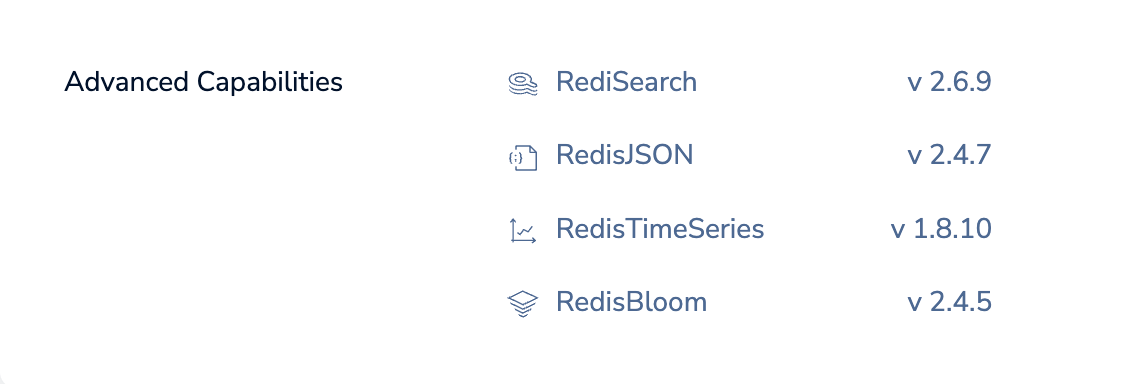
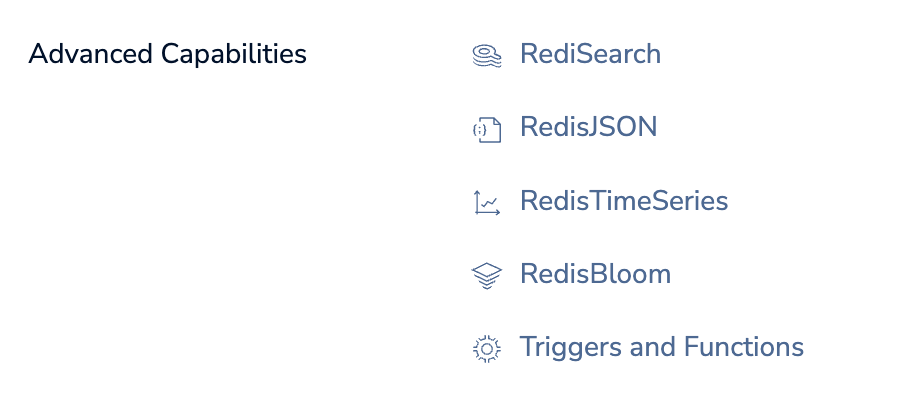
DOC-2354: Add Triggers and Functions support for Fixed (#2714)
* Change stack img to include Triggers and Functions

* Add T&F to august changelog

* Fix link title

* Update product URL

diff --git a/content/rc/changelog/august-2023.md b/content/rc/changelog/august-2023.md
@@ -1,0 +1,20 @@
+---
+Title: Redis Enterprise Cloud changelog (August 2023)
+linktitle: August 2023
+description: New features, enhancements, and other changes added to Redis Enterprise Cloud during August 2023.
+highlights: Triggers and Functions
+weight: 80
+alwaysopen: false
+categories: ["RC"]
+aliases: []
+---
+
+This changelog lists new features, enhancements, and other changes added to Redis Enterprise Cloud during August 2023.
+
+## New features
+
+### Triggers and Functions support
+
+[Triggers and Functions](https://redis.com/redis-enterprise/triggers-and-functions/) (previously known as RedisGears) is now available when you select Redis Stack when you [create a database]({{<relref "/rc/databases/create-database">}}) and use [Redis 7.2]({{<relref "/rc/changelog/june-2023##redis-72-opt-in">}}).
+
+For more information about Triggers and Functions, see the [Triggers and Functions documentation](https://redis.io/docs/interact/triggers-and-functions/).
